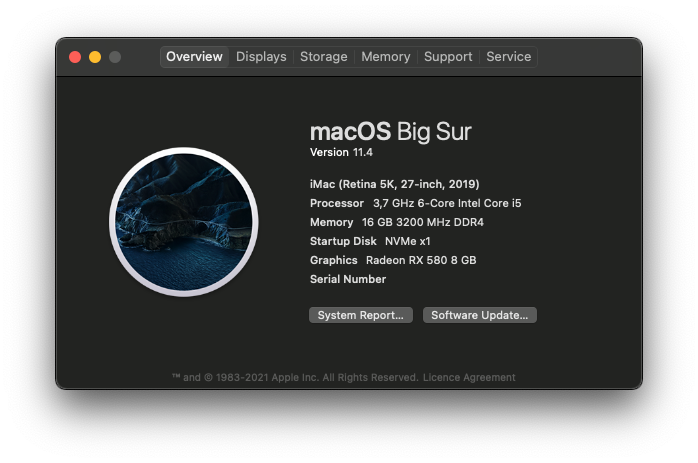
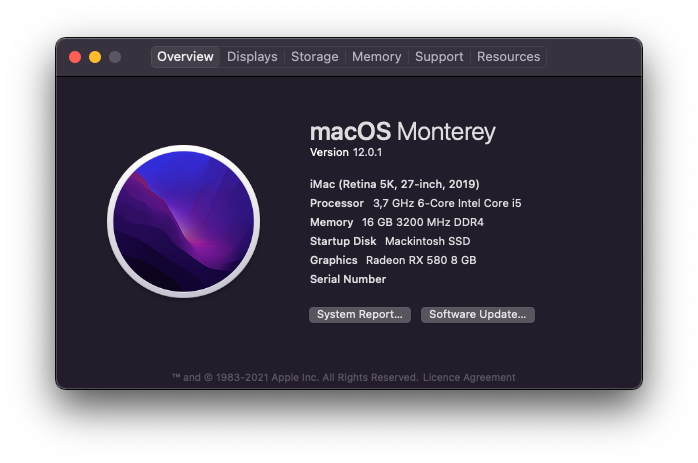
Monterey!

diff --git a/README.md b/README.md
@@ -1,5 +1,7 @@
-# BigSur Hackintosh Asus Z390-p
+# Monterey Hackintosh Asus Z390-p
 My new Hackintosh repository for prime Z390-p Hackintosh. This was long time comming. This is not a full guide - it should serve as a outline/documentation of my build and insight as to why some thing are the way they are.
+
+Monterey installs with no problem!
 
 ![SysInfo](https://github.com/DMNerd/Hackintosh/blob/main/Extra/Screenshots/Info.png)
 
